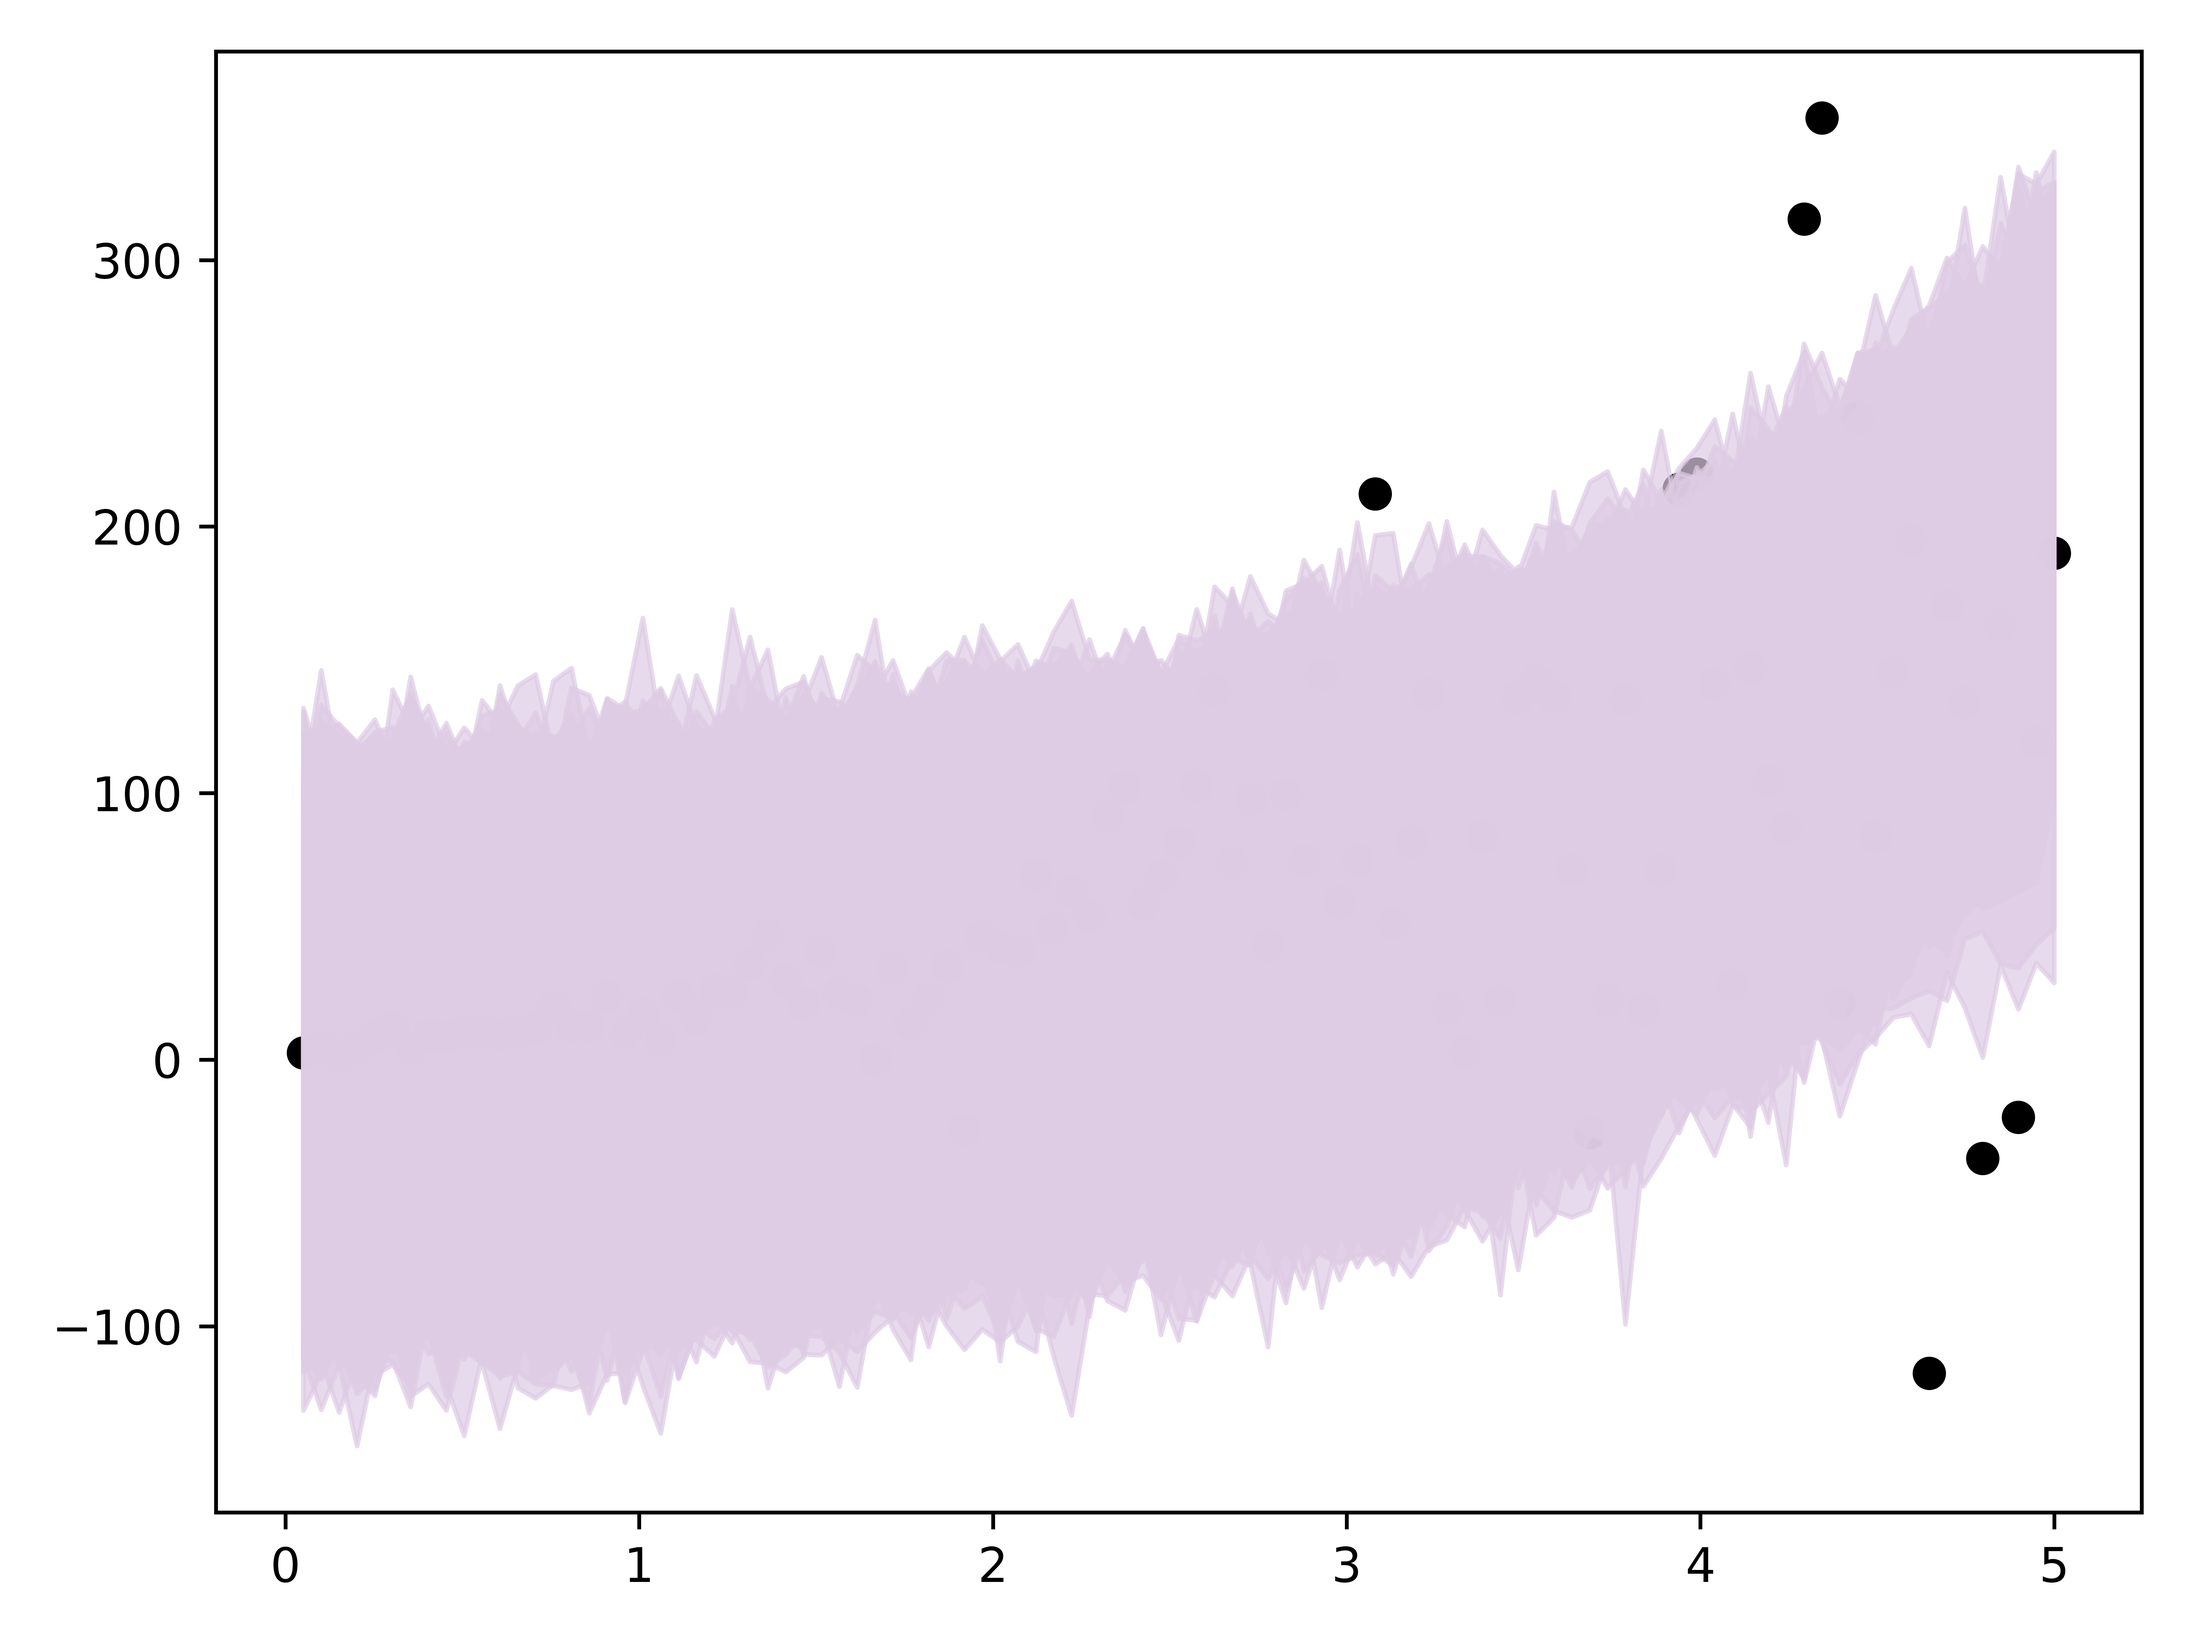
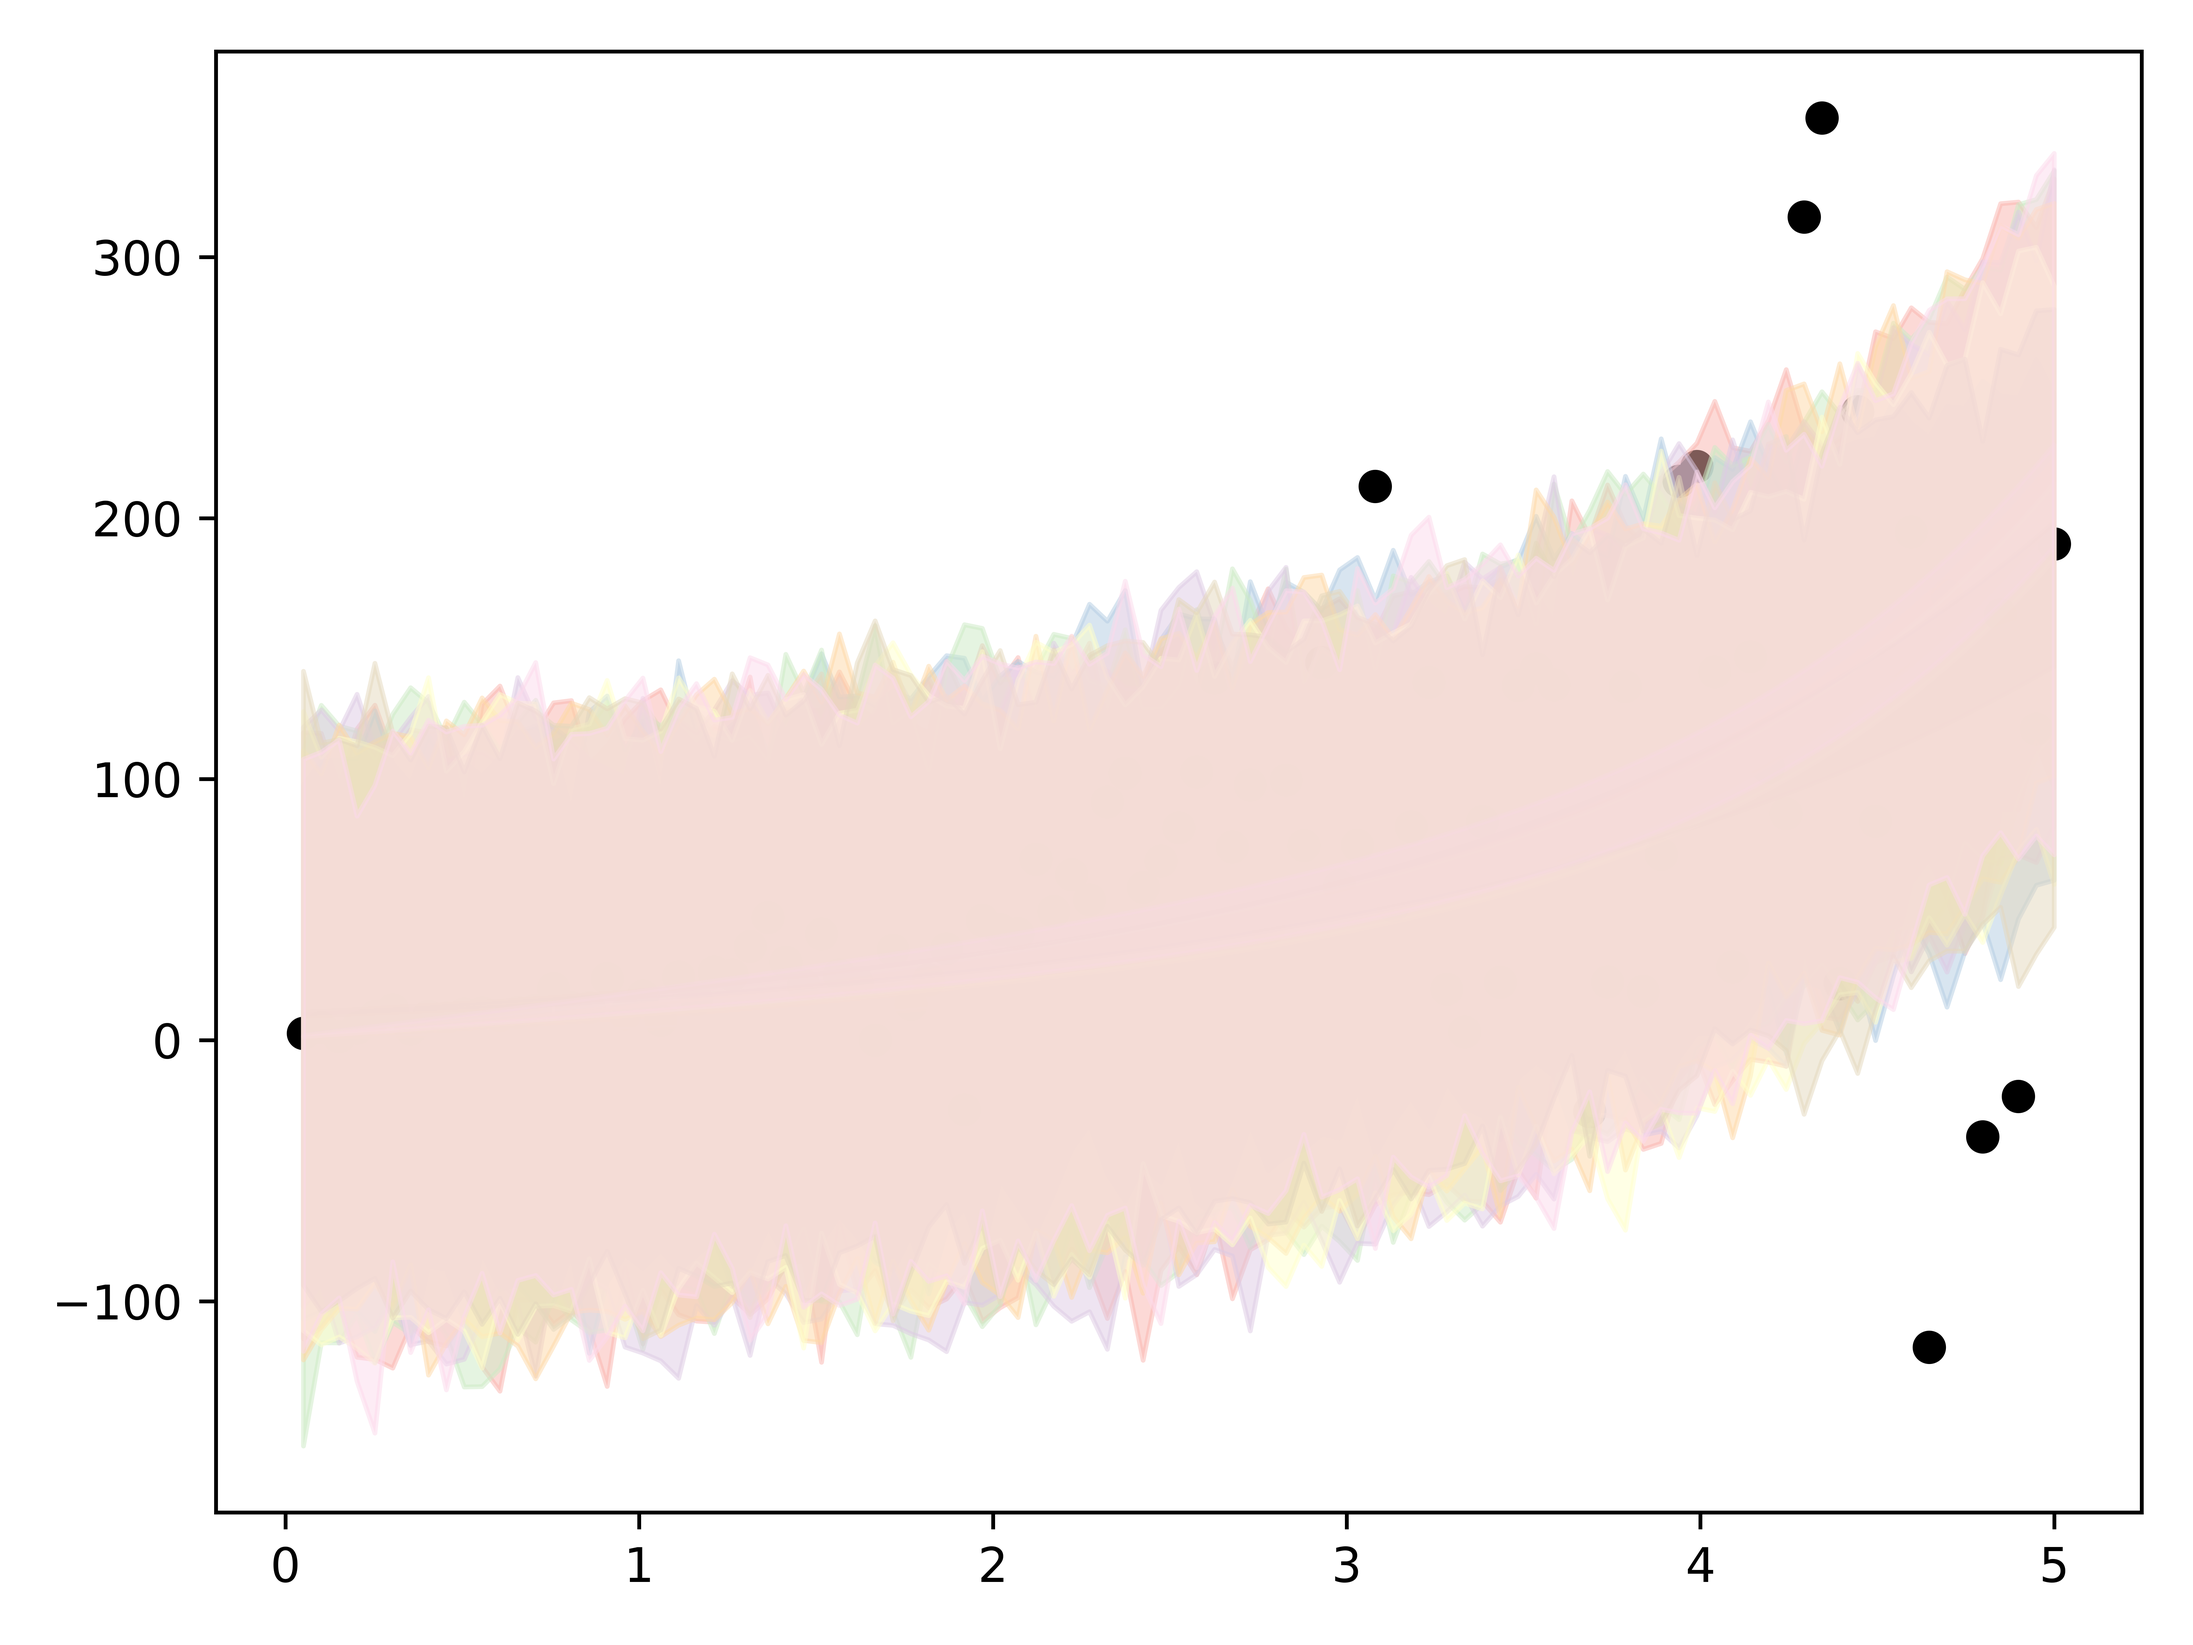
nan4

diff --git a/PML_project/plot_repos_and_data.py b/PML_project/plot_repos_and_data.py
@@ -15,7 +15,6 @@ from util.cred_pred_functions import *
 
 data = np.load('noisy_data.npy')[1:,:]
 yaml_file = 'gpsr_hyperparams1upd.yaml'
-color = plt.cm.Pastel1(3)
 def return_hof(DIR):
     
     files = glob.glob(DIR + '/*.pkl')
@@ -36,12 +35,13 @@ file_names = ['new_sr1', 'new_sr2']
 for file_name, repo in zip(file_names, repos):
 
     hof = return_hof(repo)
+    colors = [plt.cm.Pastel1(i) for i in range(len(hof))]
     clo, fbf, training_data = get_ffs_w_xy(yaml_file, data[:,0], data[:,1])
     
     fig, ax = plt.subplots(1)
     ax.scatter(training_data.x[:,0], training_data.y, c='k', label='Training Data')
 
-    for model in hof:
+    for model, color in zip(hof, colors):
         plot_model_on_fig(ax, model, training_data, fbf, color, 0, iters=20) 
 
     plt.tight_layout()
